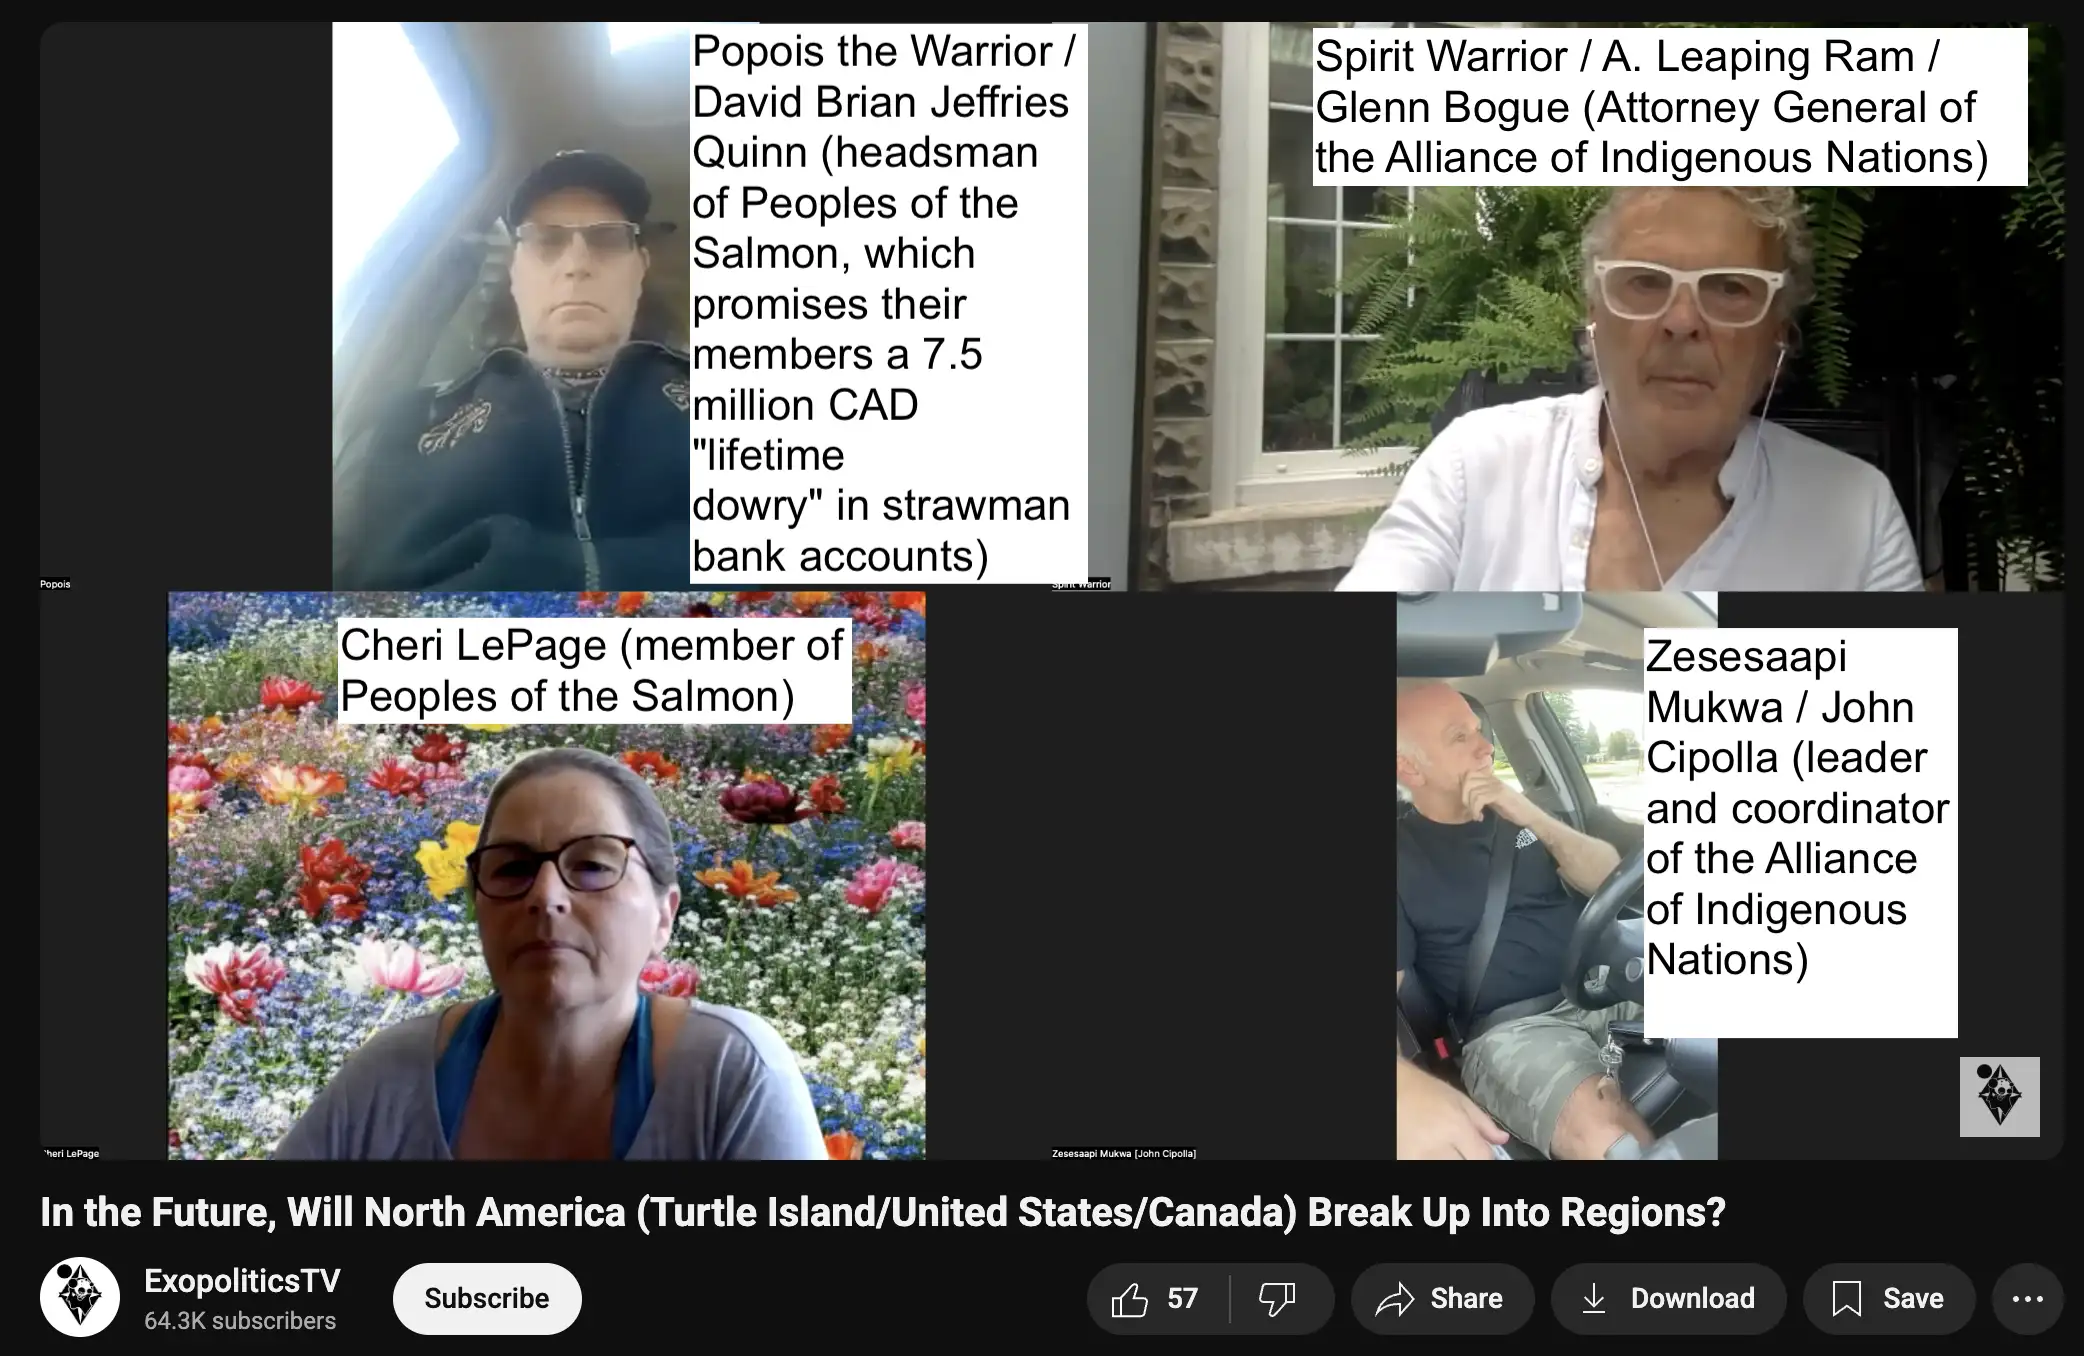
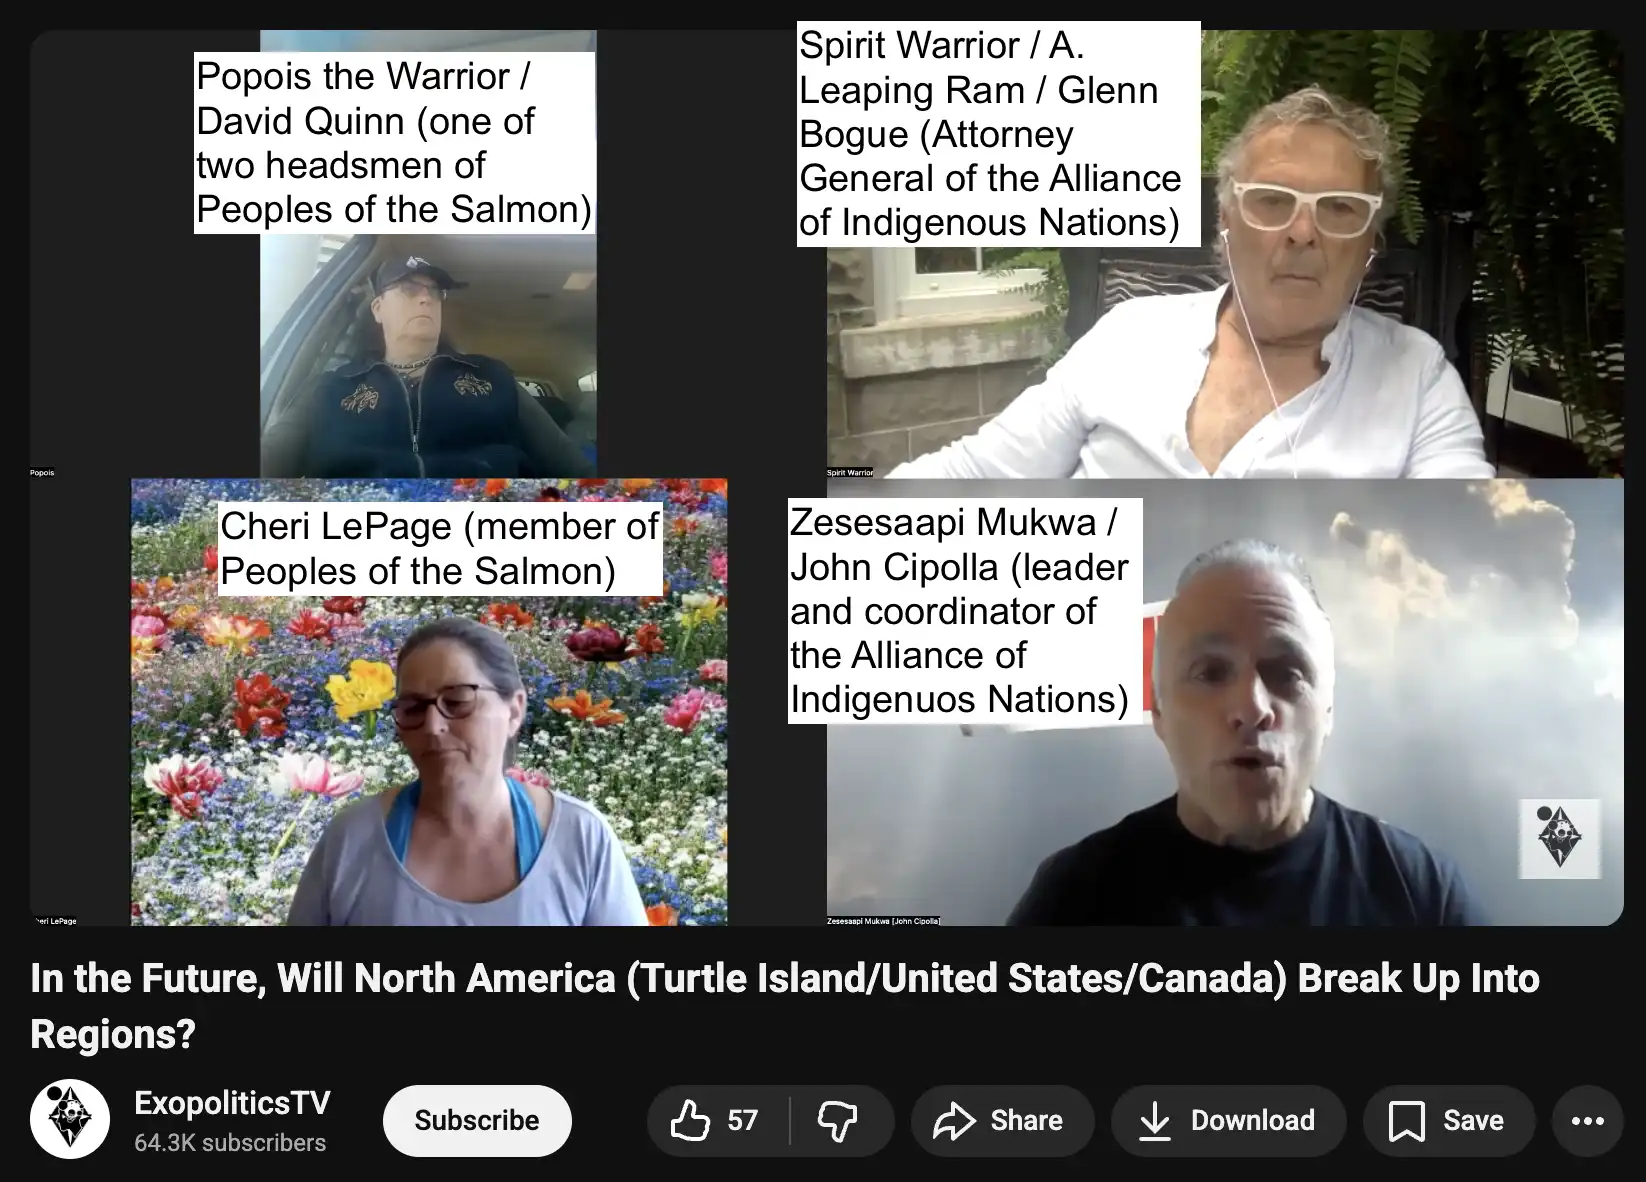
a

diff --git a/fake.html b/fake.html
@@ -240,10 +240,12 @@ this seal by <span class="quote">"A. Leaping Ram"</span>:</p>
 <p>A Leaping Ram is a sovereign citizen guru called Glenn Bogue, who is
 also known as Spirit Warrior. He appears to have first started to claim
 he was a <span class="quote">"non-status Métis"</span> around the year
-2018, when he joined the Kinakwii Private Sovereign Nation.
+2018 (which means that he doesn't have formal Indian status under the
+Indian Act).
 [<a href=https://www.quatloos.com/Q-Forum/viewtopic.php?f=48&t=11412>https://www.quatloos.com/Q-Forum/viewtopic.php?f=48&amp;t=11412</a>]
-It is an online Indian tribe which was founded in 2004 and which charges
-300 CAD per year for membership:
+He is a member of the Kinakwii Private Sovereign Nation, which is a fake
+online Indian tribe that was founded in 2004 and that charges 300 CAD
+per year for membership:
 [<a href=https://www.richardwarman.ca/glenn-bogue-lso-theatre-of-the-absurd/>https://www.richardwarman.ca/glenn-bogue-lso-theatre-of-the-absurd/</a>]</p>
 <blockquote>
 <p>With regard to the claim by Glenn Bogue to be <span
@@ -296,6 +298,27 @@ Nations.
 [<a href=https://www.asminofturtleisland.com/asminti>https://www.asminofturtleisland.com/asminti</a>]
 Glenn Bogue is the <span class="quote">"Attorney General"</span> of both
 ASMIN and AIN.</p>
+<p>A court document from 2021 said:
+[<a href=https://www.canlii.org/en/on/onsc/doc/2021/2021onsc1632/2021onsc1632.html>https://www.canlii.org/en/on/onsc/doc/2021/2021onsc1632/2021onsc1632.html</a>]</p>
+<blockquote>
+<p>[19] The evidence before me indicates that Chief Wabiska's email
+address, which includes the phrase <span
+class="quote">"askit4equity,"</span> is linked to a website advertising
+the Anishinabek Solutrean Metis Indigenous Nation (<span
+class="quote">"ASMIN"</span>), which claims to be one of the oldest
+unsurrendered, untreatied matriarchal Indigenous Nations of Turtle
+Island. For $225, anyone can become a member of the ASMIN nation on
+filling out an application.</p>
+<p>[20] The Kinakwii National website suggests that Kinakwii Nation was
+founded by William Allan of the Baldwin family and Jon of the Maskell
+family under certain notices which are in evidence before me. For $300
+annually, anyone can become a member of the Kinakwii Nation on filling
+out an application.</p>
+<p>[21] Neither the ASMIN nor the Kinakwii Nation are recognized as a
+First Nation on a comprehensive list of all First Nations across Canada
+that is compiled by Crown-Indigenous Relations, Northern Affairs Canada,
+and Indigenous Services Canada.</p>
+</blockquote>
 <p>John Cipolla was called the <span class="quote">"leader and
 coordinator"</span> of AIN by one source and the <span
 class="quote">"prosecutor"</span> of AIN by another source. He took up
